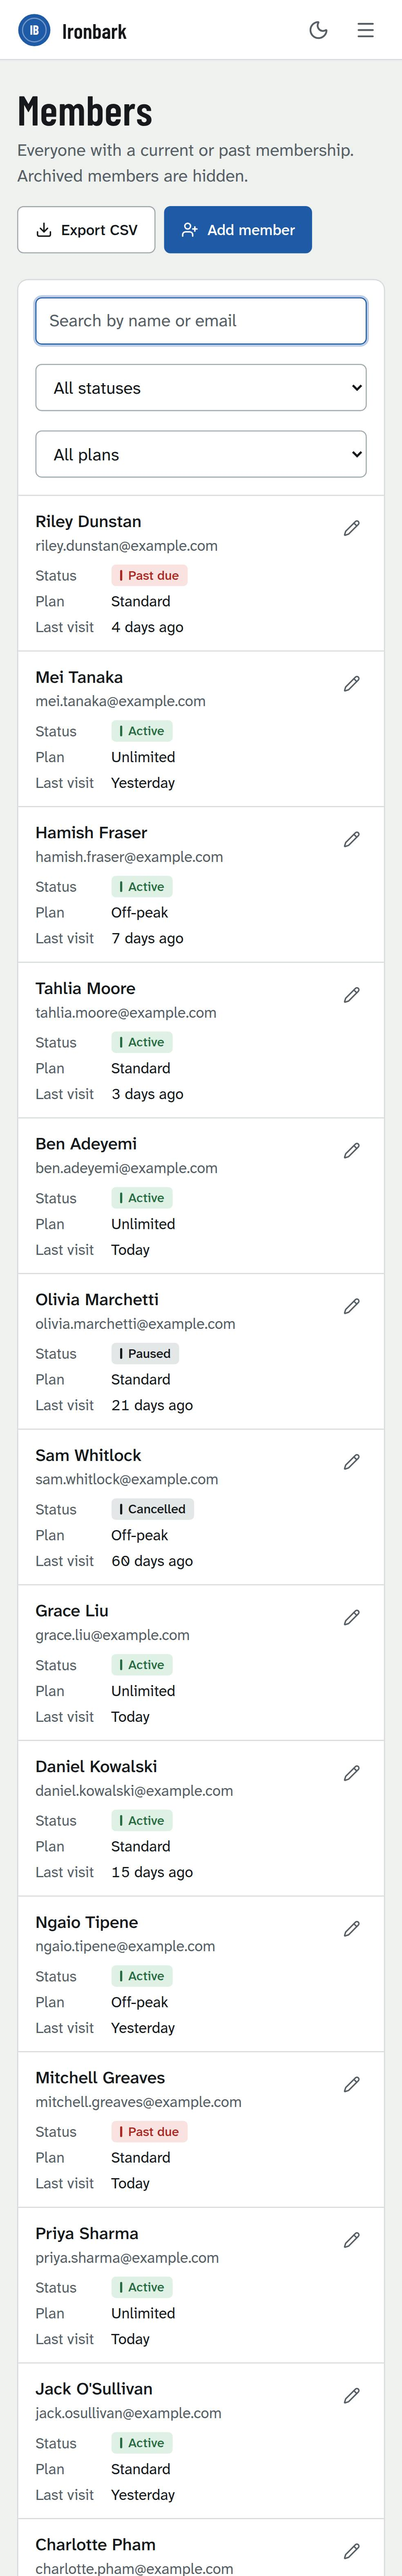
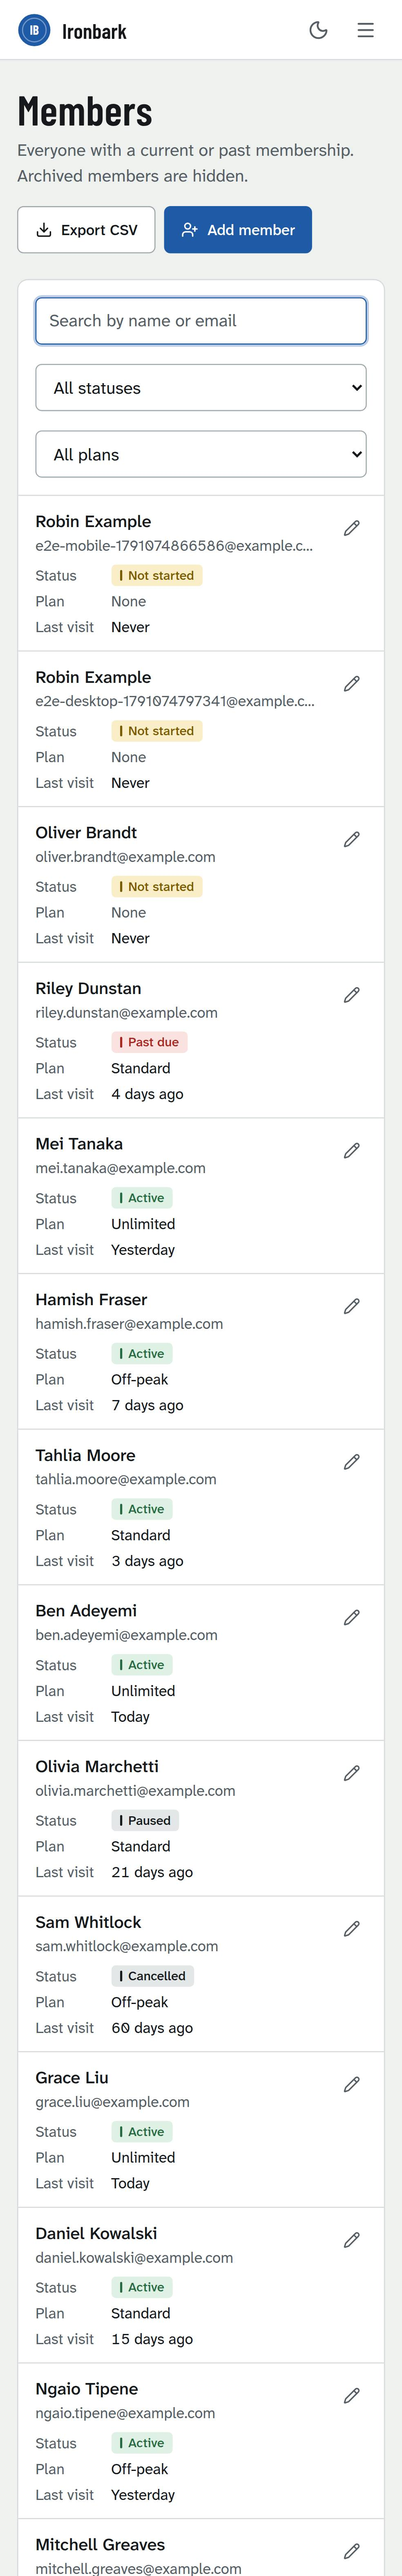
Document Phase 3 decisions, compliance status, architecture and screenshots
Claude-Session: https://claude.ai/code/session_01Dvi4xHGvX8cd9Dv8hp5sHE

diff --git a/docs/ARCHITECTURE.md b/docs/ARCHITECTURE.md
@@ -1,0 +1,108 @@
+# Architecture
+
+How GymOS fits together, for whoever maintains it next. Why things are this way is in [DECISIONS.md](DECISIONS.md); the visual system is in [DESIGN.md](DESIGN.md); legal and tax points are in [COMPLIANCE-NOTES.md](COMPLIANCE-NOTES.md).
+
+## The shape of it
+
+One Next.js 15 app (App Router) with three audiences:
+
+| Area | URL | Who | Rendering |
+| --- | --- | --- | --- |
+| Public site | `/`, `/shop`, `/terms`, `/privacy`, `/signup` | Anyone | Server components (the shop reads the database directly) |
+| Member app | `/member/*` | Signed-in members | Client components calling `/api/me/*` |
+| Staff console | `/admin/*` | Signed-in staff, by role | Client components calling the staff API |
+
+Everything that reads or changes data goes through a JSON API under `/api`. The API is the only security boundary: `middleware.ts` only redirects signed-out visitors to the right sign-in page.
+
+```
+browser ── pages (/, /member, /admin) ──┐
+                                        ├── /api/* route handlers ── lib/* services ── Prisma ── PostgreSQL
+Stripe ──── /api/webhooks/stripe ───────┘                                └── Stripe API, Resend API
+Vercel cron ── /api/cron/churn-shield (daily jobs)
+Door scanners ── /api/iot/checkin
+```
+
+## Request handling
+
+Every route handler is wrapped by one of three functions in `lib/http/route.ts`:
+
+- `publicRoute`: no session needed (sign-in, sign-up, public plans and catalogue).
+- `memberRoute`: a member session. The member ID always comes from the session, never from the request, so one member can't act on another.
+- `staffRoute({ permission })`: a staff session with that permission (`lib/auth/permissions.ts`). Roles: owner, manager, front desk, trainer.
+
+Each wrapper, in order: blocks cross-site mutating requests (same-origin and JSON-only checks), applies an optional rate limit, checks the session against the database (so revoked sessions stop working immediately), then parses the body and query with Zod. Errors come back as `{ error: { code, message, fields } }`. Tests in `tests/integration/rbac.test.ts` call every route as every role, as a member and signed out.
+
+Sessions are HMAC-signed cookies (`lib/auth/token.ts`) holding the account ID and a session version. Changing a password, archiving a member or erasing an account bumps the version and ends every session.
+
+## Data
+
+PostgreSQL through Prisma (`prisma/schema.prisma`). Money is always integer cents in AUD, and prices are GST-inclusive. GST is worked out with `lib/money.ts`: 1/11 of the inclusive amount, rounded to the cent.
+
+Main models:
+
+- **Members and plans:** `Member`, `MembershipPlan`, `MembershipEvent` (history of joins, pauses, plan changes and cancellations), `BenefitLedger` (class credits, guest passes and adjustments per billing cycle), `LegalAcceptance`, `MemberNote`.
+- **Money:** `Payment` (table `Payout` for historical reasons; sequential `invoiceNumber`), `Refund`, `PaymentReminder`, `StripeEvent` (processed webhook IDs).
+- **Classes:** `ClassTemplate` (weekly timetable), `Class`, `ClassBooking`, `ClassWaitlist`, `CheckIn`.
+- **Shop:** `Product`, `ProductVariant` (stock), `Order`, `OrderItem` (prices frozen at purchase), `OrderEvent` (status history).
+- **Operations:** `Staff`, `AuditLog`, `Announcement`, `RateLimit`, plus the older `Equipment`, `InventoryItem`, `Shift` and `AgentAction`.
+
+Migrations are in `prisma/migrations`. Each has a hand-written `down.sql` for rollback. `npm run build` never migrates; the Vercel build command migrates only for production deployments (see D-060).
+
+## Business rules live in services
+
+Route handlers stay thin and call services in `lib/`:
+
+| Area | Module | Notes |
+| --- | --- | --- |
+| Membership changes | `lib/membership/service.ts` | Pause, resume, cancel (cooling-off, notice, minimum term), plan changes with proration, and the daily transitions. Used by both staff and member routes. |
+| Benefits | `lib/membership/benefits.ts`, `cycle.ts` | Ledger balances per billing cycle (Stripe's period, or rolling from the join date). |
+| Classes | `lib/classes/service.ts`, `timetable.ts` | Every booking path locks the class row (`SELECT ... FOR UPDATE`), so classes can't be overbooked. Waitlist promotion uses savepoints. |
+| Check-in | `lib/checkin/service.ts`, `qr.ts` | Signed QR passes (`GYM1.`) with a version that reissuing bumps. Grace period for overdue payments. |
+| Billing | `lib/billing/*` | Stripe client (lazy, test keys only), webhook processing, refunds (GST pro rata, idempotency key, guarded update), reminders, tax invoices. |
+| Shop | `lib/shop/*` | `pricing.ts` (shared by server and browser), `checkout.ts` (Stripe Checkout, webhook payment, expiry), `orders.ts` (status changes, stock), `emails.ts`, `catalogue.ts`. |
+| Finance | `lib/finance/*` | Summaries by month, BAS quarter and financial year, AUD only. CSV exports neutralise spreadsheet formulas (`lib/csv.ts`). |
+| Members | `lib/members/*` | Sign-up, password change, data export, erasure and anonymisation. |
+| Legal | `lib/legal.ts` | Current document versions and acceptance records. |
+| Daily jobs | `lib/jobs/daily.ts` | Transitions, reminders, timetable generation, retention scores, data retention, rate-limit clean-up. |
+
+## Stripe
+
+Test mode only; live keys are refused unless `STRIPE_ALLOW_LIVE_KEYS=true`. Without keys, payment actions answer "Payments aren't set up yet" and everything else works.
+
+- **Memberships:** `POST /api/checkout` opens Stripe Checkout in subscription mode, with the price built from the plan (no Stripe price IDs to keep in sync). Plan changes, pauses and cancellations update the subscription.
+- **Shop:** `POST /api/shop/checkout` prices the cart on the server, creates a pending order, and opens Checkout in payment mode with a 30-minute expiry.
+- **Webhooks:** `/api/webhooks/stripe` verifies the signature, then `processStripeEvent` records the event ID and its effects in one transaction (retries are no-ops). Emails are sent after the commit.
+- **Card details** never reach GymOS. Members update cards in the Stripe customer portal.
+
+## Email
+
+`lib/email/index.ts` posts to Resend's HTTP API. With no `RESEND_API_KEY`, sends are skipped and logged. Tests capture messages instead. Transactional emails (orders, payment reminders) always go; announcement and waitlist emails respect the member's preferences.
+
+## Configuration
+
+Two layers, both validated at startup:
+
+- **`config/gym.config.json`** (`lib/config/schema.ts`): brand, legal name, ABN (checksum verified), address, timezone, hours, starting plans, and the owner's policies (cancellation, pauses, plan changes, failed payments, classes, shop, data retention, legal versions). The legal pages are generated from it. `npm run check:config` explains any problem.
+- **Environment variables** (`lib/env.ts`, documented in `.env.example`): database, session secret, Stripe test keys, Resend, cron and door-scanner secrets.
+
+## Front end
+
+- Design tokens only (`tailwind.config.ts`, `app/globals.css`); light and dark themes. Fonts: Barlow Condensed and Atkinson Hyperlegible Next.
+- Shared components in `components/ui` (buttons, panels, forms with wired-up errors, dialogs with focus trapping, data lists that become stacked rows on phones).
+- Every data view handles loading, empty and error states through `AsyncBlock`.
+- The member app (`components/member/member-shell.tsx`) loads `/api/me` once and shares it through context. It has a bottom tab bar on phones.
+- PWA: `app/manifest.ts`, icons generated by `app/pwa-icon/[size]` and `app/apple-icon.tsx`, and `public/sw.js` (caches built assets, offline page, never caches API responses).
+
+## Tests
+
+- **Unit** (`lib/**/*.test.ts`): money and GST, dates, BAS and financial-year periods, membership rules, billing, webhook status mapping, CSV, QR tokens, sessions and passwords, permissions, the route wrapper, environment and config schemas, shop pricing, sign-in redirects.
+- **Integration** (`tests/integration`): route handlers against a real PostgreSQL test database, with a fake Stripe client and signed webhook payloads. Covers permissions for every route, member data isolation, webhooks, refunds, finance, classes and credits, shop checkout and stock, sign-up, self-service and erasure.
+- **End to end** (`tests/e2e`): Playwright against a production build on a seeded throwaway database, at 375px and 1440px, with axe accessibility checks on every main page. `E2E_SCREENSHOTS=1` writes the screenshots in `docs/screenshots`.
+- **CI** (`.github/workflows/ci.yml`): config check, lint, type check, unit and integration tests, build, end-to-end tests.
+
+## Where to start for common changes
+
+- **New gym:** edit `config/gym.config.json`, run `npm run check:config`, see the README.
+- **New staff permission:** add it to `lib/auth/permissions.ts`, use it in `staffRoute`, and add the route to the matrix in `tests/integration/rbac.test.ts`.
+- **New member action:** add a service function in `lib/`, a `memberRoute` under `app/api/me`, and add the route to the member-route refusal test.
+- **New Stripe event:** handle it in `lib/billing/webhook.ts` inside the transaction, and add a signed-payload test.

diff --git a/docs/DECISIONS.md b/docs/DECISIONS.md
@@ -137,3 +137,39 @@ Decisions made while building GymOS without stopping to ask, with the reason and
 **D-059. All daily jobs run from the existing cron route.** (PR 2) `/api/cron/churn-shield` already had a Vercel cron entry and a secret. It now runs transitions, reminders, timetable generation, retention scoring and rate-limit clean-up. Renaming the route would mean changing the deployment's cron config, which this work doesn't touch.
 
 **D-060. Preview deployments don't run migrations.** (PR 1, added after PR 2 opened) Vercel builds a preview for every pull request branch, and the build command runs `prisma migrate deploy`. If the preview environment shares the production `DATABASE_URL`, an unmerged branch could change the production schema. The migration script now skips unless `VERCEL_ENV` is `production` or `ALLOW_PREVIEW_MIGRATIONS=true`. A preview against an un-migrated database may show errors on new screens; that is the safe failure.
+
+## Phase 3: member app and shop
+
+**D-061. Online sign-up creates a member with no access until a plan starts.** (PR 3) A new status, `PENDING` ("Not started"), means signed up but not paying. Check-in, class booking and plan changes all refuse it. Paying through Stripe Checkout, or staff starting the plan at the desk, makes the member active. Adding an enum value is additive; `down.sql` turns any pending members into cancelled ones before restoring the old type.
+
+**D-062. Sign-up never claims an existing email.** (PR 3) Many members were added by staff with no password. Without email verification, letting anyone "sign up" with that email would hand them someone else's account and payment history. The form says so and sends them to the front desk. Password reset and email verification by email are the follow-up (see the final report).
+
+**D-063. Acceptance of the terms and privacy policy is recorded per document and version.** (PR 3) `LegalAcceptance` stores which version, when, and in what context (sign-up, checkout, re-acceptance). When the owner publishes a new version in config, members are asked once, in a banner. Members added by staff before online sign-up existed are asked the first time they use the app.
+
+**D-064. Members self-serve only what they pay for online.** (PR 3) Plan changes from the member app go through the same service as staff changes, with the owner's proration and timing rules, and a preview that uses the same function as the change itself. Members billed at the front desk (no Stripe subscription) change plans there, because otherwise the new price would never be charged. Members can't choose "immediate" cancellation; the rules decide the date.
+
+**D-065. The member timetable never shows other members.** (PR 3) It shows spots left, the waitlist length and the member's own position. Waitlist promotion emails can be switched off; the booking still happens and shows in the app.
+
+**D-066. The QR pass is rendered on the server as an SVG, always black on white.** (PR 3) No QR library ships to the browser, and scanners read it in dark mode too. The pass shows even when the membership isn't active, because the scanner checks status at the door and the member needs to see why.
+
+**D-067. The shop is public to browse and members-only to buy.** (PR 3) Guest checkout would need a second identity model, addresses without accounts, and separate privacy handling. Signing in also lets the discount apply automatically. The cart is kept in the browser (variant IDs and quantities only) and is cleared after a successful payment.
+
+**D-068. Prices, discounts, shipping and GST are always worked out on the server.** (PR 3) The browser shows an estimate using the same pure pricing module (`lib/shop/pricing.ts`), but checkout ignores any price it sends. The member discount applies only while the membership is active. Each line goes to Stripe as one item at its discounted line total, so the amount charged equals the order total exactly.
+
+**D-069. Stock is checked at checkout and taken when payment succeeds.** (PR 3) Reserving stock for abandoned checkouts would lock items up; instead the webhook takes stock once, in the same transaction as the payment record. If something sold out in between, the payment is still recorded and the order is flagged for staff to refund or restock, so a payment is never lost. Abandoned checkouts are cancelled when Stripe reports the session expired (30 minutes).
+
+**D-070. Order emails are sent after the database commits.** (PR 3) The webhook collects emails to send and sends them once the transaction has succeeded, so a rolled-back event never emails anyone, and a retried one emails once. An email failure never makes Stripe retry. Order emails are transactional and go regardless of marketing preferences.
+
+**D-071. Account deletion erases personal details but keeps financial records.** (PR 3) The member row stays as an anonymous owner of payments, refunds and orders (kept for tax), with name, email, password, notes, delivery addresses, future bookings and waitlist places removed, and audit log entries scrubbed of name and email. Deletion is blocked while a paid membership is running (cancel first, under the gym's rules) or while orders are in progress. Stripe customer records aren't deleted from GymOS; the owner handles requests that extend to Stripe.
+
+**D-072. Data export includes staff notes.** (PR 3) Under APP 12, members can access personal information held about them, which includes notes staff write. The note field now tells staff that notes are included in a member's data download, and not to record health details without consent.
+
+**D-073. Retention periods are enforced by the daily job.** (PR 3) Check-ins older than `checkInHistoryMonths` are deleted, and members archived for longer than `archivedMemberMonths` are anonymised the same way as a deletion request. This keeps the privacy policy's promises true.
+
+**D-074. Email address changes go through the front desk.** (PR 3) Without verification, a typo would lock a member out, and a malicious change would redirect receipts. Members can change their name, preferences and password.
+
+**D-075. The PWA is deliberately small.** (PR 3) A manifest, generated icons, and a service worker that caches built assets and shows an offline page. API responses and staff pages are never cached, because they're personal and must be current. Offline access to the pass was considered and left out: it would mean storing a live pass token in the browser cache.
+
+**D-076. Legal pages are generated from config.** (PR 3) The terms and privacy policy read notice periods, cooling-off, pause limits, shop returns and retention periods from `config/gym.config.json`, so the documents and the app's behaviour can't drift apart. Until `legal.reviewedByLawyer` is true, both pages say they are templates.
+
+**D-077. Local `--reset` seeding recreates plans from config.** (PR 3) Plans that existed before the Phase 2 migration have zero benefits (the migration can't read config). Real deployments keep their plans and the owner sets benefits in Plans; local and test databases now start from config.

diff --git a/docs/COMPLIANCE-NOTES.md b/docs/COMPLIANCE-NOTES.md
@@ -20,11 +20,11 @@ Status key: **Built** means the app enforces or supports it. **Hook** means ther
 | # | Assumption | Status |
 | --- | --- | --- |
 | C-07 | Cancellation and refund rules are the owner's, set in `policies.cancellation` and `policies.shop` in config, not hard-coded. | Built (PR 1 config; PR 2 enforces cancellation, pause and plan-change rules for staff; PR 3 for members). |
-| C-08 | Consumer guarantees can't be excluded. Terms must not say "no refunds"; a member is entitled to a remedy if a service isn't provided with due care or isn't fit for purpose, whatever the gym's change-of-mind policy says. | Owner (the template terms in PR 3 will say this). |
+| C-08 | Consumer guarantees can't be excluded. Terms must not say "no refunds"; a member is entitled to a remedy if a service isn't provided with due care or isn't fit for purpose, whatever the gym's change-of-mind policy says. | Built (PR 3): the template terms state consumer guarantees can't be excluded; shop pages and order emails say faulty items are always covered. Owner to have reviewed. |
 | C-09 | Some states regulate fitness memberships directly, for example NSW's Fitness Services (Pre-paid Fees) legislation, which includes a cooling-off period and limits on pre-payment. Config has `coolingOffDays` (default 7) and `minimumTermWeeks`. The right values depend on the state and the contract. | Hook. Owner must confirm with a lawyer. |
 | C-10 | Unfair contract terms law applies to standard-form consumer contracts, including gym memberships (with penalties since November 2023). Membership terms need legal review. | Owner |
 | C-11 | Price rises for existing members need notice. The app applies a new plan price to new sign-ups only; existing Stripe subscriptions keep their price until changed. The settings screen tells the owner to give written notice. | Built (PR 1); notice emails are the owner's. |
-| C-12 | Members accept the current terms version before paying. Checkout requires `acceptTerms: true` and records the terms version in Stripe metadata and the audit log. | Built (PR 1, minimal). PR 3 adds a versioned, timestamped acceptance record and the terms page. |
+| C-12 | Members accept the current terms version before paying. Checkout requires `acceptTerms: true` and records the terms version in Stripe metadata and the audit log. | Built (PR 3): sign-up and checkout record a timestamped acceptance per document and version (`LegalAcceptance`); members are asked again when a version changes. |
 | C-13 | Direct debit, if used instead of cards, has its own rules (BECS). Phase 1 uses card payments through Stripe. | Owner |
 
 ## Privacy Act 1988 and the Australian Privacy Principles
@@ -34,13 +34,13 @@ Small businesses under $3 million turnover are often exempt from the Privacy Act
 | # | Assumption | Status |
 | --- | --- | --- |
 | C-14 | Collect only what's needed (APP 3). Members: name, email, plan, payment status, visits and bookings. No date of birth, address, gender or photo is collected. Card details stay with Stripe and never touch GymOS. | Built (PR 1) |
-| C-15 | Staff notes about members can contain sensitive or health information. The field is staff-only and labelled so. Staff should be trained not to record health details unless needed and consented to. | Hook / Owner |
+| C-15 | Staff notes about members can contain sensitive or health information. Notes are hidden in the member app but included in a member's data download (APP 12), and the field says so. Staff should be trained not to record health details unless needed and consented to. | Hook / Owner |
 | C-16 | Logs don't contain personal data. Prisma query logging (which wrote member emails to hosting logs) is off. Errors log a message, not request bodies. | Built (PR 1) |
-| C-17 | Retention periods are in config (`policies.dataRetention`) and will be explained on the privacy policy page. | Hook (PR 3 adds the page and automated clean-up). |
-| C-18 | Members can export their data and ask for their account to be deleted (APP 12 and 13). Deletion keeps financial records the law requires and removes or anonymises the rest. | PR 3 |
-| C-19 | A template Privacy Policy and Terms will ship, clearly marked as needing a lawyer's review. `legal.reviewedByLawyer` in config is `false` until that's done. | PR 3 |
+| C-17 | Retention periods are in config (`policies.dataRetention`) and will be explained on the privacy policy page. | Built (PR 3): the privacy policy shows the periods from config, and the daily job deletes old check-ins and anonymises long-archived members. |
+| C-18 | Members can export their data and ask for their account to be deleted (APP 12 and 13). Deletion keeps financial records the law requires and removes or anonymises the rest. | Built (PR 3): data export (JSON, includes staff notes) and account deletion in the member app. Deletion anonymises and keeps financial records. |
+| C-19 | A template Privacy Policy and Terms will ship, clearly marked as needing a lawyer's review. `legal.reviewedByLawyer` in config is `false` until that's done. | Built (PR 3): `/terms` and `/privacy` generated from config, with a "Template only" warning until `legal.reviewedByLawyer` is true. Owner must have them reviewed. |
 | C-20 | Data breaches likely to cause serious harm must be notified under the Notifiable Data Breaches scheme, if the gym is covered. | Owner |
-| C-21 | Hosting may be outside Australia (APP 8, cross-border disclosure). The privacy policy must say where data is stored. | Owner |
+| C-21 | Hosting may be outside Australia (APP 8, cross-border disclosure). The privacy policy must say where data is stored. | Owner: the privacy policy has a placeholder to list hosting providers and countries. |
 
 ## Supplements (shop)
 
@@ -55,5 +55,5 @@ Small businesses under $3 million turnover are often exempt from the Privacy Act
 | # | Assumption | Status |
 | --- | --- | --- |
 | C-25 | Accessibility: the main flows have zero axe violations (WCAG 2.1 A and AA rules) at 375px and 1440px. This isn't a full WCAG audit. | Built (PR 1, tested in CI) |
-| C-26 | Spam Act 2003: marketing emails need consent and an unsubscribe. Transactional emails (receipts, booking confirmations) don't. Announcements in PR 2 respect notification preferences. | Built (PR 2): announcement emails only go to members with announcements switched on. PR 3 adds the member-facing preference and unsubscribe. |
+| C-26 | Spam Act 2003: marketing emails need consent and an unsubscribe. Transactional emails (receipts, booking confirmations) don't. Announcements in PR 2 respect notification preferences. | Built (PR 2 and 3): announcement emails go only to members with "Gym news" on, and include a link to switch it off. Recommended follow-up: a one-click unsubscribe link that doesn't need signing in. |
 | C-27 | Staff passwords and member passwords are hashed with scrypt; no one, including the owner, can read them. | Built |

diff --git a/README.md b/README.md
@@ -1,12 +1,12 @@
 # GymOS
 
-The software an independent gym runs on. Staff manage members, plans, classes, check-in and payments; members manage their own membership. Built for Australian gyms: prices in AUD with GST included, tax invoices with an ABN, and cancellation rules set by the owner.
+The software an independent gym runs on. Staff manage members, plans, classes, check-in, payments, the shop and announcements; members join online, manage their own membership, book classes, show a QR pass at the door and buy from the shop. Installable on a phone as a web app. Built for Australian gyms: prices in AUD with GST included, tax invoices with an ABN, and cancellation rules set by the owner.
 
 The gym's name, ABN, address, hours, plans and policies all live in one validated file, [`config/gym.config.json`](config/gym.config.json), so a new gym can adopt the app without code changes.
 
 ## Stack
 
-Next.js 15 (App Router) and React 19, TypeScript (strict), Prisma 5 with PostgreSQL, Tailwind CSS 3 with design tokens, Zod for every input and environment variable, Stripe (test mode) for subscriptions, Vitest and Playwright with axe for tests. See [docs/ARCHITECTURE.md](docs/ARCHITECTURE.md) once it exists, [docs/DECISIONS.md](docs/DECISIONS.md) for why things are the way they are, and [docs/DESIGN.md](docs/DESIGN.md) for the design system.
+Next.js 15 (App Router) and React 19, TypeScript (strict), Prisma 5 with PostgreSQL, Tailwind CSS 3 with design tokens, Zod for every input and environment variable, Stripe (test mode) for subscriptions and shop payments, Vitest and Playwright with axe for tests. See [docs/ARCHITECTURE.md](docs/ARCHITECTURE.md) for how it fits together, [docs/DECISIONS.md](docs/DECISIONS.md) for why things are the way they are, and [docs/DESIGN.md](docs/DESIGN.md) for the design system.
 
 ## Run it locally
 
@@ -29,7 +29,9 @@ Demo accounts from the seed, all with the password `ironbark-demo-2026`:
 | Manager | manager@example.com | /admin/login |
 | Front desk | frontdesk@example.com | /admin/login |
 | Trainer | trainer@example.com | /admin/login |
-| Member | charlotte.pham@example.com | /login |
+| Member (Unlimited plan, 10% shop discount) | charlotte.pham@example.com | /login |
+| Member (Standard plan) | jack.osullivan@example.com | /login |
+| Signed up online, no plan yet | oliver.brandt@example.com | /login |
 
 To start again from scratch on a local database: `npm run db:seed -- --reset`. The seed refuses to run with `NODE_ENV=production`, never touches a database that already has members or staff, and only allows `--reset` against a local or test database.
 
@@ -46,7 +48,7 @@ STRIPE_WEBHOOK_SECRET=whsec_...      # from `stripe listen --forward-to localhos
 
 Live keys are refused at startup unless `STRIPE_ALLOW_LIVE_KEYS=true`.
 
-Webhook events the app handles: `checkout.session.completed`, `customer.subscription.updated` and `.deleted`, `invoice.paid`, `invoice.payment_succeeded`, `invoice.payment_failed` and `charge.refunded`.
+Webhook events the app handles: `checkout.session.completed`, `customer.subscription.updated` and `.deleted`, `invoice.paid`, `invoice.payment_succeeded`, `invoice.payment_failed`, `charge.refunded` and `checkout.session.expired` (abandoned shop checkouts). Test a shop payment with card `4242 4242 4242 4242`.
 
 ### Email (optional)
 
